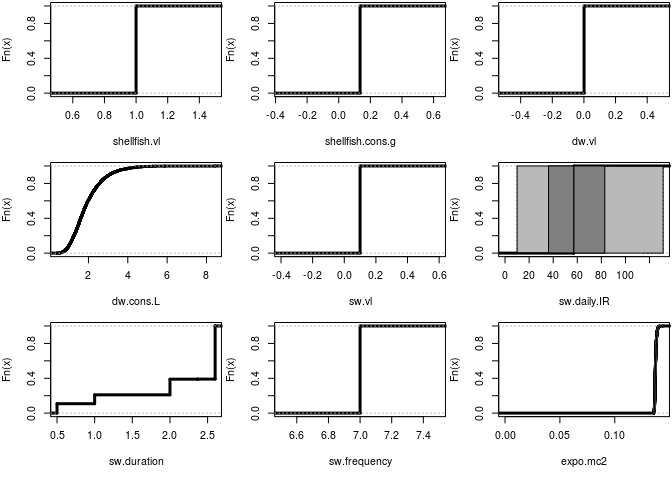
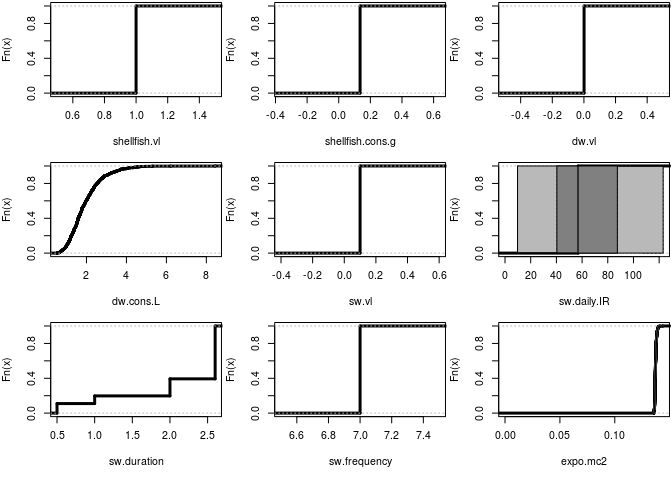
# Report the median of the means with a 95% credible interval (CI95).

diff --git a/ex0618prob2d.md b/ex0618prob2d.md
@@ -165,6 +165,7 @@ are used to establish a 95% credible interval (CI95).
 
 
 ```r
+# Report the median of the means with a 95% credible interval (CI95).
 mean.risk <- sapply(1:nsu, function(j) mean(Risk.mat[, j]))
 quantile(mean.risk, probs = seq(0, 1, 0.025))[c("2.5%", "50%", "97.5%")]
 ```
@@ -271,12 +272,8 @@ to define "mc nodes" for each component of the model.
 
 For each "mc node", supply a probability function, the node type as "V" for 
 variability or "U" for uncertainty, and any additional parameters to be passed 
-to the probability function. 
-
-Other node types ("VU" and "0") are also available, but we will not be using 
-them in this example. See the 
-[mcstoc documentation](http://www.inside-r.org/packages/cran/mc2d/docs/mcstoc)
-for details.
+to the probability function. For deterministic variables, just define them as
+usual or create an "mc node" with the `mcdata()` function using the "0" type.
 
 We will model the deterministic factors as uniform probablity distributions.
 
@@ -292,20 +289,20 @@ expo.mod1 <- mcmodel({
     # (Wiley, 2014), pp. 215-216. Other fictitious values are noted below.
     
     # Shellfish viral loading (viruses/g):
-    shellfish.vl <- mcstoc(runif, type = "V", min = 1, max = 1)
+    shellfish.vl <- 1
     
     # Shellfish consumption (g/day):
-    shellfish.cons.g <- mcstoc(runif, type = "V", min = 0.135, max = 0.135)
+    shellfish.cons.g <- 0.135
     
     # Drinking water viral loading (viruses/L):
-    dw.vl <- mcstoc(runif, type = "V", min = 0.001, max = 0.001)
+    dw.vl <- 0.001
     
     # Drinking water consumption (L/day):
     dw.cons.L <- mcstoc(rlnorm, type = "V", seed = seed, 
                         meanlog = 7.49, sdlog = 0.407) / 1000
     
     # Swimming in surface water viral loading (viruses/L):
-    sw.vl <- mcstoc(runif, type = "V", min = 0.1, max = 0.1)
+    sw.vl <- 0.1
     
     # Swimming daily ingestion rate (mL/hour): fictitious sd = 45
     sw.daily.IR <- mcstoc(rnorm, type = "U", seed = seed, 
@@ -317,7 +314,7 @@ expo.mod1 <- mcmodel({
                           prob = c(0.1, 0.1, 0.2, 0.6))
     
     # Swimming frequency (swims/year):
-    sw.frequency <- mcstoc(runif, type = "V", min = 7, max = 7)
+    sw.frequency <- 7
     
     # Create an mc object to estimate microbial exposure.
     mc((shellfish.vl * shellfish.cons.g) + (dw.vl * dw.cons.L) + 
@@ -345,7 +342,8 @@ print(expo.ev1, digits = digits)
 
 ### Summarize results
 
-Print a summary of the evaluation results (`expo.ev1`) and plot the empirical cumulative distribution function (ecdf).
+Print a summary of the evaluation results (`expo.ev1`) and plot the empirical cumulative distribution function (ecdf). Report the median of the means with a 
+95% credible interval (CI95).
 
 
 ```r
@@ -356,10 +354,10 @@ summary(expo.ev1)
 ```
 ##  :
 ##         mean       sd   Min  2.5%   25%   50%   75% 97.5%   Max  nsv Na's
-## median 0.137 0.000845 0.136 0.136 0.137 0.137 0.138 0.139 0.144 5000    0
-## mean   0.137 0.000847 0.136 0.136 0.137 0.137 0.138 0.139 0.144 5000    0
-## 2.5%   0.137 0.000841 0.135 0.136 0.136 0.137 0.137 0.139 0.143 5000    0
-## 97.5%  0.137 0.000861 0.136 0.136 0.137 0.137 0.138 0.140 0.144 5000    0
+## median 0.137 0.000859 0.136 0.136 0.137 0.137 0.138 0.139 0.144 1001    0
+## mean   0.137 0.000861 0.136 0.136 0.137 0.137 0.138 0.139 0.144 1001    0
+## 2.5%   0.137 0.000856 0.136 0.136 0.136 0.137 0.137 0.139 0.143 1001    0
+## 97.5%  0.137 0.000872 0.136 0.136 0.137 0.137 0.138 0.140 0.144 1001    0
 ```
 
 ```r
@@ -368,6 +366,17 @@ plot(expo.ev1)
 ```
 
 ![](./ex0618prob2d_files/figure-html/results-ev1-1.png) 
+
+```r
+# Report the median of the means with a 95% credible interval (CI95).
+mean.risk1 <- sapply(expo.ev1[[1]][1,,], mean)
+quantile(mean.risk1, probs = seq(0, 1, 0.025))[c("2.5%", "50%", "97.5%")]
+```
+
+```
+##    2.5%     50%   97.5% 
+## 0.13644 0.13667 0.13700
+```
 
 ## Repeat 2-D simulation again with a loop
 
@@ -388,6 +397,17 @@ of very high dimensional models on relatively modest computer systems.
 ```r
 # Load packages.
 library(mc2d)
+```
+
+### Define variables
+
+Define the variables we will use to set the `seed` for random sampling and the 
+number of `digits` for `print()` statements.
+
+
+```r
+seed <- 1
+digits <- 5
 ```
 
 ### Define exposure model
@@ -414,6 +434,11 @@ mcmodelcut({
 ... where `nsu` is the number of simulations for uncertainty used in the 
 evaluation.
 
+Since `mcmodelcut()` requires that all variables defined in the first block are 
+of type "V", "U", "VU", or "0", our deterministic (type "0") variables need be 
+made into "mc nodes", so create them with the `mcdata()` function using the "0" 
+type.
+
 
 ```r
 # Build a mcmodelcut object in three blocks for evaluation by evalmccut().
@@ -425,20 +450,20 @@ expo.mcmcut <- mcmodelcut({
         # (Wiley, 2014), pp. 215-216. Other fictitious values are noted below.
         
         # Shellfish viral loading (viruses/g):
-        shellfish.vl <- mcstoc(runif, type = "V", min = 1, max = 1)
+        shellfish.vl <- mcdata(1, type = "0")
         
         # Shellfish consumption (g/day):
-        shellfish.cons.g <- mcstoc(runif, type = "V", min = 0.135, max = 0.135)
+        shellfish.cons.g <- mcdata(0.135, type = "0")
         
         # Drinking water viral loading (viruses/L):
-        dw.vl <- mcstoc(runif, type = "V", min = 0.001, max = 0.001)
+        dw.vl <- mcdata(0.001, type = "0")
         
         # Drinking water consumption (L/day):
         dw.cons.L <- mcstoc(rlnorm, type = "V", seed = seed, 
                             meanlog = 7.49, sdlog = 0.407) / 1000
         
         # Swimming in surface water viral loading (viruses/L):
-        sw.vl <- mcstoc(runif, type = "V", min = 0.1, max = 0.1)
+        sw.vl <- mcdata(0.1, type = "0")
         
         # Swimming daily ingestion rate (mL/hour): fictitious sd = 45
         sw.daily.IR <- mcstoc(rnorm, type = "U", seed = seed, 
@@ -450,7 +475,7 @@ expo.mcmcut <- mcmodelcut({
                               prob = c(0.1, 0.1, 0.2, 0.6))
         
         # Swimming frequency (swims/year):
-        sw.frequency <- mcstoc(runif, type = "V", min = 7, max = 7)
+        sw.frequency <- mcdata(7, type = "0")
     }
     
     # Block2: Evaluate all of the VU nodes. Last statement makes an mc object.
@@ -475,18 +500,17 @@ expo.mcmcut <- mcmodelcut({
 ```
 ## The following expression will be evaluated only once :
 ## {
-##     shellfish.vl <- mcstoc(runif, type = "V", min = 1, max = 1)
-##     shellfish.cons.g <- mcstoc(runif, type = "V", min = 0.135, 
-##         max = 0.135)
-##     dw.vl <- mcstoc(runif, type = "V", min = 0.001, max = 0.001)
+##     shellfish.vl <- mcdata(1, type = "0")
+##     shellfish.cons.g <- mcdata(0.135, type = "0")
+##     dw.vl <- mcdata(0.001, type = "0")
 ##     dw.cons.L <- mcstoc(rlnorm, type = "V", seed = seed, meanlog = 7.49, 
 ##         sdlog = 0.407)/1000
-##     sw.vl <- mcstoc(runif, type = "V", min = 0.1, max = 0.1)
+##     sw.vl <- mcdata(0.1, type = "0")
 ##     sw.daily.IR <- mcstoc(rnorm, type = "U", seed = seed, mean = 50, 
 ##         sd = 45, rtrunc = TRUE, linf = 0)
 ##     sw.duration <- mcstoc(rempiricalD, type = "V", seed = seed, 
 ##         values = c(0.5, 1, 2, 2.6), prob = c(0.1, 0.1, 0.2, 0.6))
-##     sw.frequency <- mcstoc(runif, type = "V", min = 7, max = 7)
+##     sw.frequency <- mcdata(7, type = "0")
 ## }
 ## The mc object is named:  expo.mod2
 ```
@@ -507,18 +531,19 @@ capture.output(expo.ev2 <- evalmccut(expo.mcmcut, seed = seed))
 ```
 
 ```
-## [1] "'0' mcnode(s) built in the first block:  "                                                                            
-## [2] "'V' mcnode(s) built in the first block: dw.cons.L dw.vl shellfish.cons.g shellfish.vl sw.duration sw.frequency sw.vl "
-## [3] "'U' mcnode(s) built in the first block: sw.daily.IR "                                                                 
-## [4] "'VU' mcnode(s) built in the first block:  "                                                                           
-## [5] "The 'U' and 'VU' nodes will be sent column by column in the loop"                                                     
-## [6] "---------|---------|---------|---------|---------|"                                                                   
+## [1] "'0' mcnode(s) built in the first block: dw.vl shellfish.cons.g shellfish.vl sw.frequency sw.vl "
+## [2] "'V' mcnode(s) built in the first block: dw.cons.L sw.duration "                                 
+## [3] "'U' mcnode(s) built in the first block: sw.daily.IR "                                           
+## [4] "'VU' mcnode(s) built in the first block:  "                                                     
+## [5] "The 'U' and 'VU' nodes will be sent column by column in the loop"                               
+## [6] "---------|---------|---------|---------|---------|"                                             
 ## [7] "**************************************************"
 ```
 
 ### Summarize results
 
-Print the accumulated statistics with `summary()` and `plot()`.
+Print the accumulated statistics with `summary()` and `plot()`. Report the 
+median of the means with a 95% credible interval (CI95).
 
 
 ```r
@@ -528,47 +553,47 @@ summary(expo.ev2)
 
 ```
 ## shellfish.vl :
-##       mean sd Min 2.5% 25% 50% 75% 97.5% Max  nsv Na's
-## NoUnc    1  0   1    1   1   1   1     1   1 5000    0
+##       NoVar
+## NoInc     1
 ## 
 ## shellfish.cons.g :
-##        mean sd   Min  2.5%   25%   50%   75% 97.5%   Max  nsv Na's
-## NoUnc 0.135  0 0.135 0.135 0.135 0.135 0.135 0.135 0.135 5000    0
+##       NoVar
+## NoInc 0.135
 ## 
 ## dw.vl :
-##        mean sd   Min  2.5%   25%   50%   75% 97.5%   Max  nsv Na's
-## NoUnc 0.001  0 0.001 0.001 0.001 0.001 0.001 0.001 0.001 5000    0
+##       NoVar
+## NoInc 0.001
 ## 
 ## dw.cons.L :
 ##       mean    sd   Min  2.5%  25%  50%  75% 97.5%  Max  nsv Na's
-## NoUnc 1.95 0.841 0.402 0.776 1.36 1.78 2.38  4.07 8.44 5000    0
+## NoUnc 1.95 0.856 0.526 0.752 1.35 1.76 2.37  4.05 8.44 1001    0
 ## 
 ## sw.vl :
-##       mean sd Min 2.5% 25% 50% 75% 97.5% Max  nsv Na's
-## NoUnc  0.1  0 0.1  0.1 0.1 0.1 0.1   0.1 0.1 5000    0
+##       NoVar
+## NoInc   0.1
 ## 
 ## sw.daily.IR :
-##       NoVar
-## 50%    57.2
-## mean   61.9
-## 2.5%   10.0
-## 97.5% 131.3
-## Nas     0.0
+##        NoVar
+## 50%    56.91
+## mean   62.26
+## 2.5%    9.76
+## 97.5% 123.10
+## Nas     0.00
 ## 
 ## sw.duration :
 ##       mean    sd Min 2.5% 25% 50% 75% 97.5% Max  nsv Na's
-## NoUnc  2.1 0.744 0.5  0.5   2 2.6 2.6   2.6 2.6 5000    0
+## NoUnc 2.11 0.736 0.5  0.5   2 2.6 2.6   2.6 2.6 1001    0
 ## 
 ## sw.frequency :
-##       mean sd Min 2.5% 25% 50% 75% 97.5% Max  nsv Na's
-## NoUnc    7  0   7    7   7   7   7     7   7 5000    0
+##       NoVar
+## NoInc     7
 ## 
 ## expo.mc2 :
 ##        mean       sd   Min  2.5%   25%   50%   75% 97.5%   Max  nsv Na's
-## 50%   0.137 0.000845 0.136 0.136 0.137 0.137 0.138 0.139 0.144 5000    0
-## mean  0.137 0.000847 0.136 0.136 0.137 0.137 0.138 0.139 0.144 5000    0
-## 2.5%  0.137 0.000841 0.135 0.136 0.136 0.137 0.137 0.139 0.143 5000    0
-## 97.5% 0.137 0.000861 0.136 0.136 0.137 0.137 0.138 0.140 0.144 5000    0
+## 50%   0.137 0.000859 0.136 0.136 0.137 0.137 0.138 0.139 0.144 1001    0
+## mean  0.137 0.000861 0.136 0.136 0.137 0.137 0.138 0.139 0.144 1001    0
+## 2.5%  0.137 0.000856 0.136 0.136 0.136 0.137 0.137 0.139 0.143 1001    0
+## 97.5% 0.137 0.000872 0.136 0.136 0.137 0.137 0.138 0.140 0.144 1001    0
 ## Nas   0.000 0.000000 0.000 0.000 0.000 0.000 0.000 0.000 0.000    0    0
 ```
 
@@ -577,6 +602,17 @@ plot(expo.ev2)
 ```
 
 ![](./ex0618prob2d_files/figure-html/results-ev2-1.png) 
+
+```r
+# Report the median of the means with a 95% credible interval (CI95).
+mean.risk2 <- expo.ev2$sum$expo.mc2[,,"mean"]
+quantile(mean.risk2, probs = seq(0, 1, 0.025))[c("2.5%", "50%", "97.5%")]
+```
+
+```
+##    2.5%     50%   97.5% 
+## 0.13699 0.13718 0.13745
+```
 
 Plot the empirical cumulative distribution function (ecdf) for the estimated 
 exposure. To match the format of the `ecdf` plot made earlier, we will 
